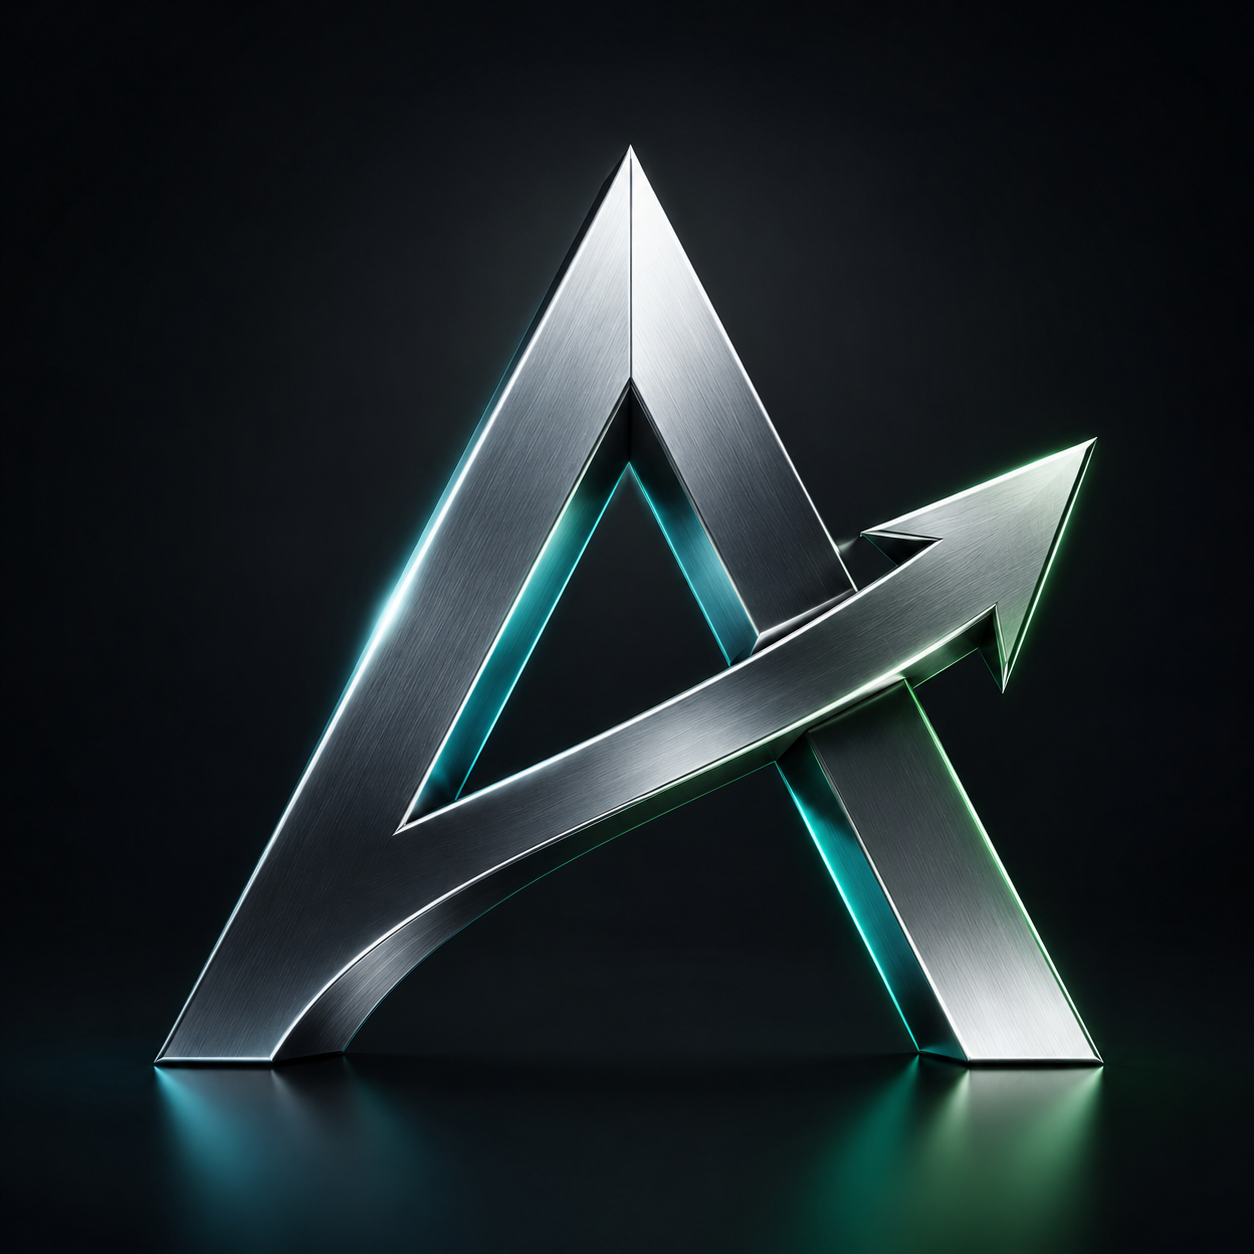
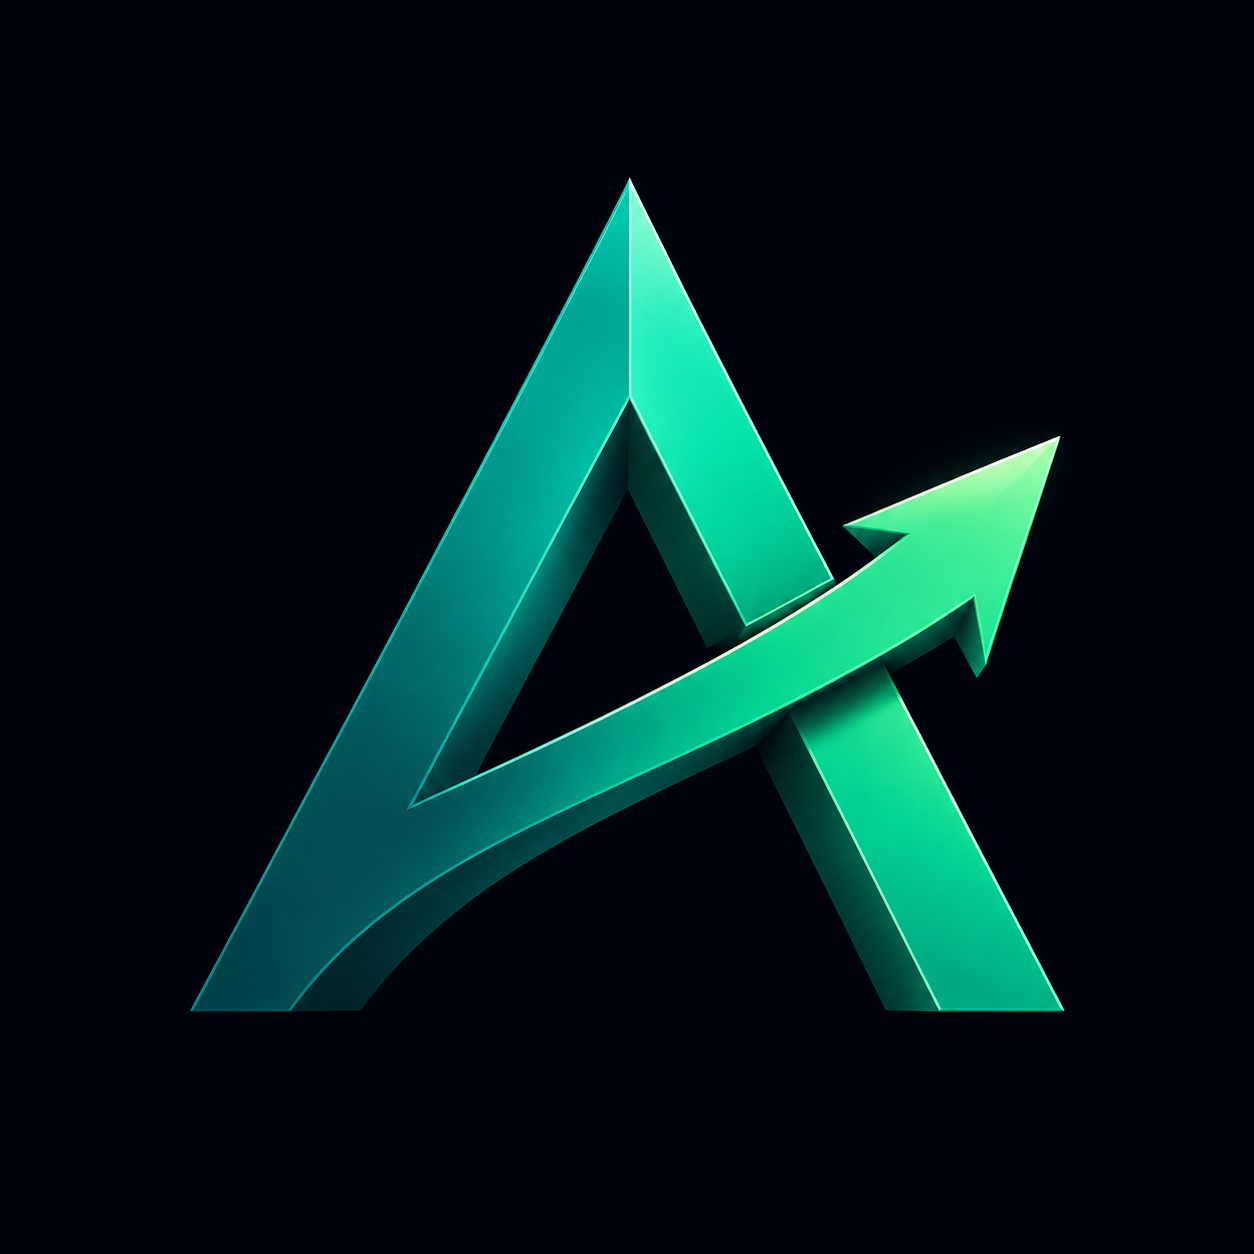
updated more code

diff --git a/app/layout.tsx b/app/layout.tsx
@@ -76,9 +76,21 @@ export const metadata: Metadata = {
     description: "Measurable local retail media, built for store owners and brands.",
   },
   icons: {
-    icon: "/icon.png",
-    shortcut: "/icon.png",
-    apple: "/icon.png",
+    /*
+     * Each size is its own file. The previous version pointed every size at
+     * one 1254px, 1.3MB source image, so a browser asking for a 32px tab icon
+     * downloaded the same megabyte-plus file as the 512px one.
+     */
+    icon: [
+      { url: "/favicon.ico", sizes: "any" },
+      { url: "/icon-32.png", sizes: "32x32", type: "image/png" },
+      { url: "/icon-192.png", sizes: "192x192", type: "image/png" },
+      { url: "/icon-512.png", sizes: "512x512", type: "image/png" },
+    ],
+    shortcut: "/favicon.ico",
+    apple: [
+      { url: "/apple-touch-icon.png", sizes: "180x180", type: "image/png" },
+    ],
   },
   robots: {
     index: true,

diff --git a/components/site/Brand.tsx b/components/site/Brand.tsx
@@ -1,4 +1,5 @@
 import Link from "next/link";
+import Image from "next/image";
 
 /**
  * The Addlyft lockup.
@@ -18,11 +19,18 @@ import Link from "next/link";
 export function BrandMark({ className = "brand__mark" }: { className?: string }) {
   return (
     <span className={className}>
-      <img
-        src="/images/image.png"
+      {/*
+       * The mark never renders past ~26px anywhere on the site (.wm is fixed
+       * at 1.22rem, no larger context exists) — a 128px source is generous
+       * headroom for retina and a fraction of the 2MB original, which was the
+       * literal 1254px export loaded, unresized, on every single page.
+       */}
+      <Image
+        src="/images/brand-mark.png"
         alt="A"
-        width={32}
-        height={32}
+        width={128}
+        height={128}
+        priority
         style={{
           width: "1.24em",
           height: "1.24em",

diff --git a/styles/ui.css b/styles/ui.css
@@ -912,9 +912,14 @@ a:hover .shot--zoom img {
   color: rgba(20, 184, 166, 0.16);
 }
 
-.ftr__word-mark svg {
-  width: 100%;
-  height: 100%;
+/* BrandMark renders an <img>, not an inline svg — this used to target only
+   the svg case, so the image fell back to its own 1.24em style, got clamped
+   to the box's width by the global img{max-width:100%} rule, and stretched
+   non-square. Filling the box explicitly is what the svg rule always meant. */
+.ftr__word-mark svg,
+.ftr__word-mark img {
+  width: 100% !important;
+  height: 100% !important;
 }
 
 .ftr__word-type {

diff --git a/lib/site.ts b/lib/site.ts
@@ -60,7 +60,7 @@ export function organizationJsonLd() {
     slogan: SITE_TAGLINE,
     description: SITE_DESCRIPTION,
     email: CONTACT_EMAIL,
-    logo: `${SITE_URL}/icon.svg`,
+    logo: `${SITE_URL}/icon-512.png`,
     areaServed: { "@type": "Country", name: "United States" },
     knowsAbout: [
       "local retail media",

diff --git a/README.md b/README.md
@@ -1,9 +1,9 @@
-# ADD-LYFT — commercial website
+# Addlyft — commercial website
 
-The public marketing site for ADD-LYFT. Next.js 15 (App Router), React 19, TypeScript.
+The public marketing site for Addlyft. Next.js 15 (App Router), React 19, TypeScript.
 
-**Grow Local. Reach Further.** — ADD-LYFT is the company; **Go** (store owners) and
-**Reach** (brands) are the products.
+**Grow Local. Reach Further.** — Addlyft is the company; **Go** (store owners) and
+**Reach** (advertisers) are the products.
 
 ```bash
 npm install
@@ -43,15 +43,16 @@ reference for writing accurate commercial copy — it is not published.
 
 | Route | Purpose |
 | --- | --- |
-| `/` | Homepage — hero, the moment, the 3D room, the cycle, both products, venues, network, measurement, commitments, pricing, FAQ, CTA |
-| `/go` | ADD-LYFT Go — store owners |
-| `/reach` | ADD-LYFT Reach — brands |
+| `/` | Homepage — hero, live AI ad studio, products overview, philosophy, trust, pricing glance, FAQs, CTA |
+| `/how-it-works` | How it works — 3D store room, two-channel cycle clock, ecosystem loop, measurement |
+| `/go` | Addlyft Go — store owners |
+| `/reach` | Addlyft Reach — advertisers |
 | `/network` | Markets, venue types, how a store joins |
-| `/pricing` | Go plans, comparison table, Reach model |
+| `/pricing` | Go plans, comparison table, Reach model, volume estimator, top-ups |
 | `/about` | Story, principles, team |
 | `/contact` | Intent-aware contact form |
 | `/legal/privacy`, `/legal/terms` | Plain-language summaries |
-| `/api/contact` | Form endpoint (validates; **delivery not yet wired** — see below) |
+| `/api/contact` | Form endpoint |
 
 ## Structure
 
@@ -67,7 +68,7 @@ styles/              base tokens · shared UI · homepage · inner pages
 
 ## Design system
 
-Brand colours are fixed and must not be restyled: ADD-LYFT teal `#0d9488` /
+Brand colours are fixed and must not be restyled: Addlyft teal `#0d9488` /
 `#14b8a6`, Reach purple `#7c3aed`. Neutrals are deliberately warm (ivory paper, warm
 ink) rather than blue-grey. Type is Inter Tight for UI, Instrument Serif italic for
 editorial emphasis only (`.em`), JetBrains Mono for labels and data. All tokens live in
